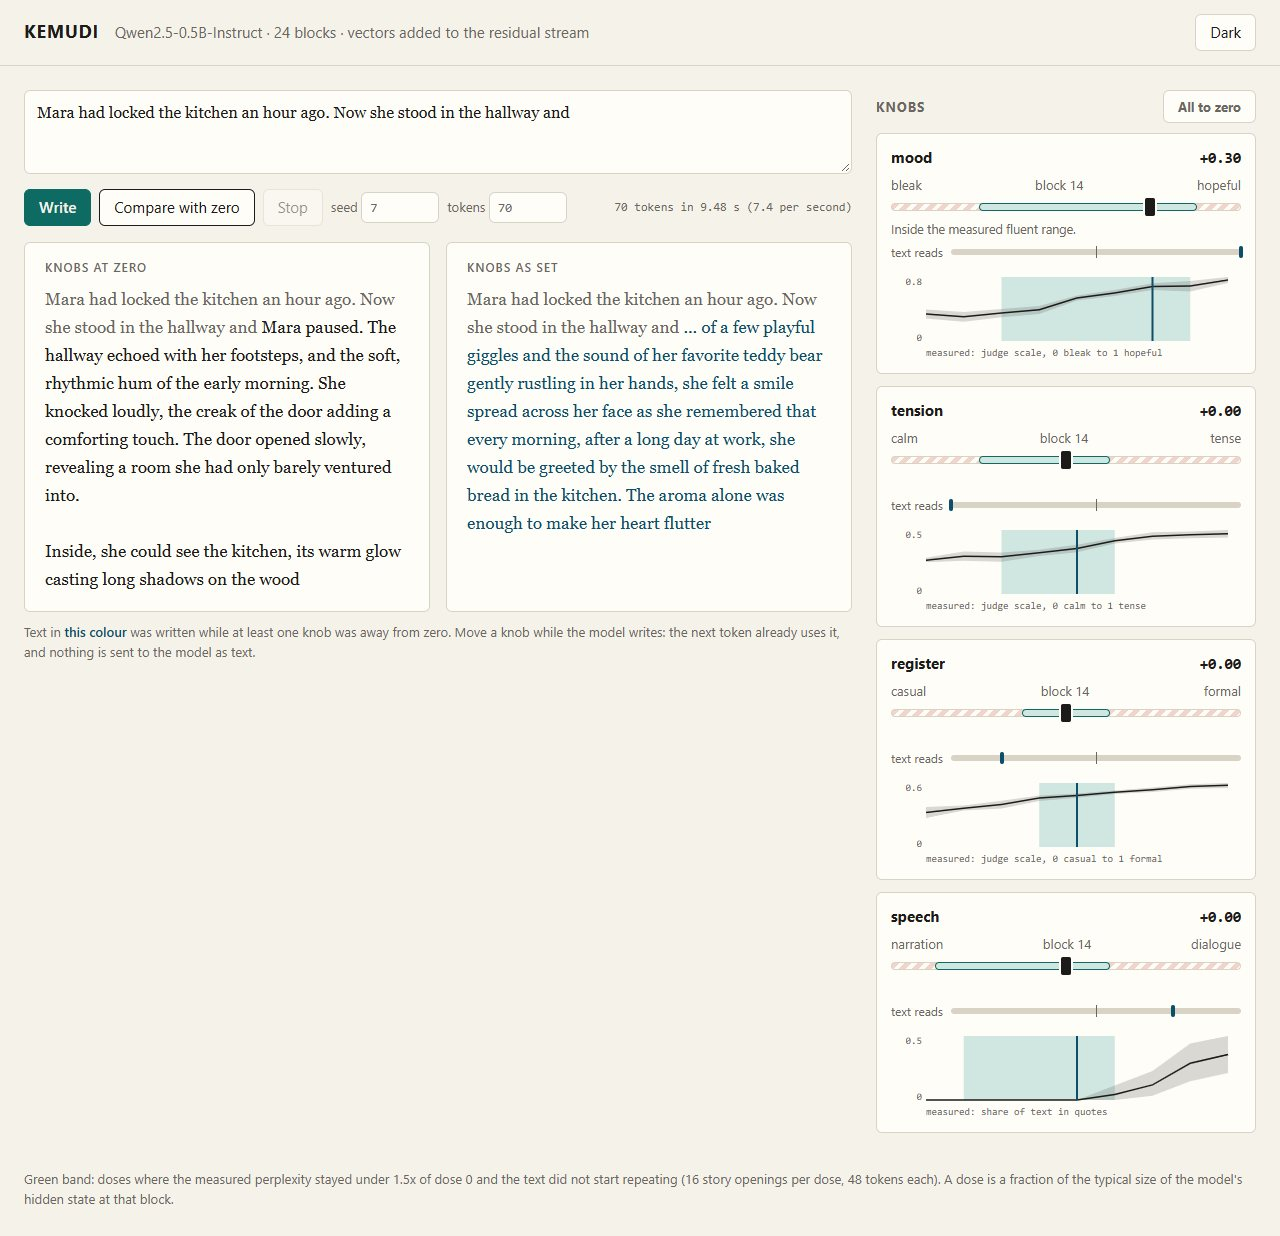
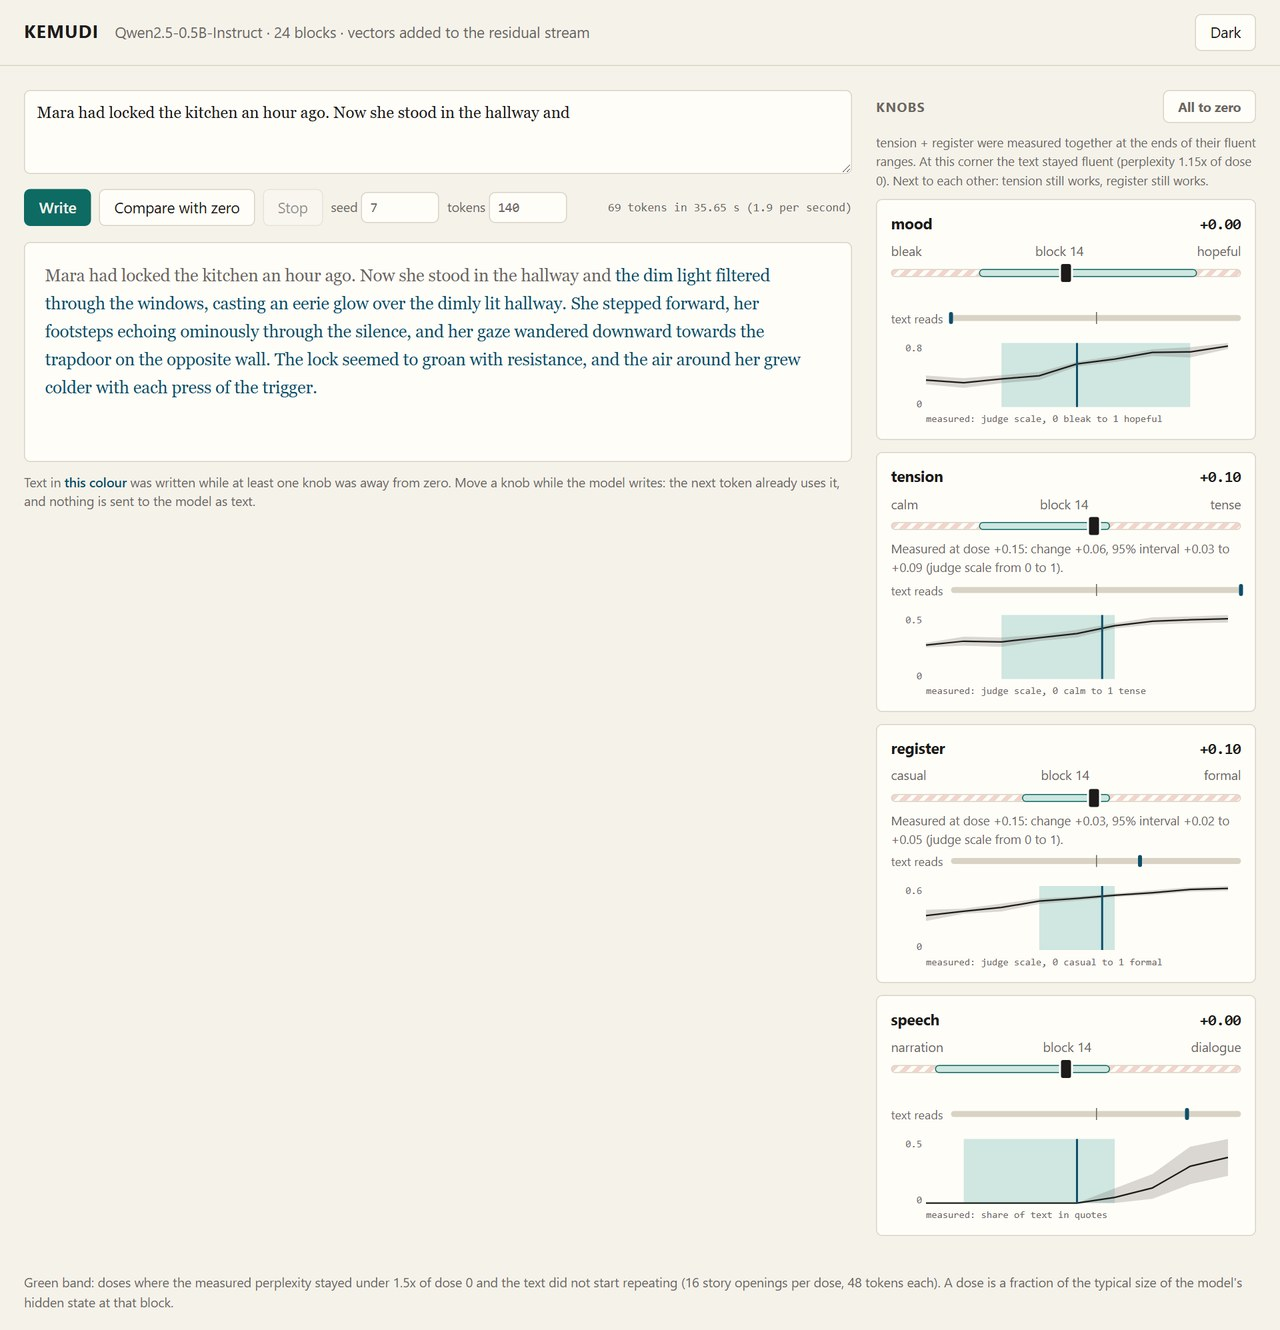
Refresh Kemudi landing page: second machine, fresh-sentence judge, blind rating, two knobs

diff --git a/p/kemudi/index.html b/p/kemudi/index.html
@@ -605,7 +605,7 @@ html.dna.dna.dna { --fd: "Overpass", var(--fd-fallback); --fdw: 800; --fd-fallba
       <div class="bar"><i></i><i></i><i></i><span>kemudi · preview</span><em>screenshot</em></div>
       <img src="shot.jpg" alt="Kemudi screenshot" width="1280" height="800" fetchpriority="high">
     </figure>
-    <div class="stats reveal" style="--n:4"><div class="stat"><b>2</b><span>platforms: Python, local model</span></div><div class="stat"><b>4</b><span>knobs, each with a measured usable range</span></div><div class="stat"><b>576</b><span>steered texts scored</span></div><div class="stat"><b>6 of 6</b><span>deliberate code mutations caught by the tests</span></div></div>
+    <div class="stats reveal" style="--n:4"><div class="stat"><b>2</b><span>platforms: Python, local model</span></div><div class="stat"><b>4</b><span>knobs, each with a measured usable range</span></div><div class="stat"><b>1,088</b><span>texts reproduced to the letter on a second machine</span></div><div class="stat"><b>9 of 9</b><span>deliberate code mutations caught by the tests</span></div></div>
   </section>
 
   <section class="block wrap why reveal" id="why">
@@ -646,12 +646,12 @@ kemudi serve --open"><svg viewBox="0 0 24 24" aria-hidden="true"><rect x="8" y="
   <section class="block alt wrap reveal" id="features">
     <div class="kicker">What's inside</div>
     <h2>What the four knobs do.</h2>
-    <div class="bento"><article class="cell wide dark"><h3>Four knobs</h3><p>Mood (bleak to hopeful), tension (calm to tense), register (casual to formal) and speech (narration to dialogue), for a story the model is writing.</p></article><article class="cell"><h3>They act while the model writes</h3><p>Move a slider and the next words change. Nothing is added to the prompt and nothing is regenerated.</p></article><article class="cell"><h3>A green band on every slider</h3><p>The doses that were measured to keep the text fluent. Past the band the app warns you before you get there.</p></article><article class="cell accent"><h3>A gauge per knob</h3><p>It reads the model&#x27;s own state along that direction, word by word.</p></article><article class="cell"><h3>Compare with zero</h3><p>The same opening and the same random seed, written with and without your knobs, side by side.</p></article><article class="cell"><h3>Measured, with two controls</h3><p>Each knob has a dose-response with 95% intervals, a random direction of the same size, and a prompt control measured the same way.</p></article><article class="cell"><h3>It runs on your computer</h3><p>The model is Qwen2.5-0.5B-Instruct (about 1 GB, Apache-2.0), on the CPU. No account, no API key, no data leaves the machine.</p></article></div>
+    <div class="bento"><article class="cell wide dark"><h3>Four knobs</h3><p>Mood (bleak to hopeful), tension (calm to tense), register (casual to formal) and speech (narration to dialogue), for a story the model is writing.</p></article><article class="cell"><h3>They act while the model writes</h3><p>Move a slider and the next words change. Nothing is added to the prompt and nothing is regenerated.</p></article><article class="cell"><h3>A green band on every slider</h3><p>The doses that were measured to keep the text fluent. Past the band the app warns you before you get there.</p></article><article class="cell accent"><h3>A measured note under every slider</h3><p>The change at the nearest measured dose with its 95% interval, or &quot;no clear effect&quot;. With two knobs on, the app says what was measured for that pair.</p></article><article class="cell"><h3>A gauge per knob</h3><p>It reads the model&#x27;s own state along that direction, word by word.</p></article><article class="cell"><h3>Compare with zero</h3><p>The same opening and the same random seed, written with and without your knobs, side by side.</p></article><article class="cell"><h3>Measured, with two controls</h3><p>Each knob has a dose-response with 95% intervals, a random direction of the same size, and a prompt control measured the same way. A second machine gave the same 1,088 texts and 590 of 600 published numbers, the rest differing by 0.0001 or less.</p></article><article class="cell wide"><h3>It runs on your computer</h3><p>The model is Qwen2.5-0.5B-Instruct (about 1 GB, Apache-2.0), on the CPU. No account, no API key, no data leaves the machine.</p></article></div>
   </section>
   <section class="block wrap reveal" id="gallery">
     <div class="kicker">Screens</div>
     <h2>See more of it.</h2>
-    <div class="gallery g1" style="grid-template-columns:minmax(0,820px)"><a class="shot" href="g1.jpg"><img src="g1.jpg" alt="The Kemudi app: four knobs with their measured curves, and a story being written" loading="lazy" width="1280" height="1236"><span>The Kemudi app: four knobs with their measured curves, and a story being written</span></a></div>
+    <div class="gallery g1" style="grid-template-columns:minmax(0,820px)"><a class="shot" href="g1.jpg"><img src="g1.jpg" alt="The Kemudi app: four knobs with their measured curves and a measured note under each, and a story being written" loading="lazy" width="1280" height="1330"><span>The Kemudi app: four knobs with their measured curves and a measured note under each, and a story being written</span></a></div>
   </section>
   <section class="block alt wrap reveal" id="privacy">
     <div class="privacy">
@@ -664,7 +664,7 @@ kemudi serve --open"><svg viewBox="0 0 24 24" aria-hidden="true"><rect x="8" y="
     <div class="limits">
       <div><div class="kicker left">Good to know</div><h2 class="left">Honest limits.</h2>
       <p class="muted">Straight from the README, so you know what you're getting before you try it.</p></div>
-      <ul><li><i><svg viewBox="0 0 24 24" aria-hidden="true"><path d="M12 3.5l9.5 16.5h-19z" fill="none" stroke="currentColor" stroke-width="2" stroke-linejoin="round"/><path d="M12 10v4.5M12 17.4v.1" stroke="currentColor" stroke-width="2.2" stroke-linecap="round"/></svg></i><span>Everything here was measured on Qwen2.5-0.5B-Instruct.</span></li><li><i><svg viewBox="0 0 24 24" aria-hidden="true"><path d="M12 3.5l9.5 16.5h-19z" fill="none" stroke="currentColor" stroke-width="2" stroke-linejoin="round"/><path d="M12 10v4.5M12 17.4v.1" stroke="currentColor" stroke-width="2.2" stroke-linecap="round"/></svg></i><span>The sample is small: 16 openings, 48 tokens each, one random seed, English, story continuation only.</span></li><li><i><svg viewBox="0 0 24 24" aria-hidden="true"><path d="M12 3.5l9.5 16.5h-19z" fill="none" stroke="currentColor" stroke-width="2" stroke-linejoin="round"/><path d="M12 10v4.5M12 17.4v.1" stroke="currentColor" stroke-width="2.2" stroke-linecap="round"/></svg></i><span>The judge is the model itself.</span></li><li><i><svg viewBox="0 0 24 24" aria-hidden="true"><path d="M12 3.5l9.5 16.5h-19z" fill="none" stroke="currentColor" stroke-width="2" stroke-linejoin="round"/><path d="M12 10v4.5M12 17.4v.1" stroke="currentColor" stroke-width="2.2" stroke-linecap="round"/></svg></i><span>Speech is the weak knob: inside its usable range the effect is small.</span></li><li><i><svg viewBox="0 0 24 24" aria-hidden="true"><path d="M12 3.5l9.5 16.5h-19z" fill="none" stroke="currentColor" stroke-width="2" stroke-linejoin="round"/><path d="M12 10v4.5M12 17.4v.1" stroke="currentColor" stroke-width="2.2" stroke-linecap="round"/></svg></i><span>Each knob was measured alone.</span></li></ul>
+      <ul><li><i><svg viewBox="0 0 24 24" aria-hidden="true"><path d="M12 3.5l9.5 16.5h-19z" fill="none" stroke="currentColor" stroke-width="2" stroke-linejoin="round"/><path d="M12 10v4.5M12 17.4v.1" stroke="currentColor" stroke-width="2.2" stroke-linecap="round"/></svg></i><span>Measured on one small model, Qwen2.5-0.5B-Instruct: 16 openings of 48 tokens, one seed, English story continuation only, and nothing is claimed for any other model.</span></li><li><i><svg viewBox="0 0 24 24" aria-hidden="true"><path d="M12 3.5l9.5 16.5h-19z" fill="none" stroke="currentColor" stroke-width="2" stroke-linejoin="round"/><path d="M12 10v4.5M12 17.4v.1" stroke="currentColor" stroke-width="2.2" stroke-linecap="round"/></svg></i><span>The judge is the model itself, and no person rated the texts: three other language models rated them blind.</span></li><li><i><svg viewBox="0 0 24 24" aria-hidden="true"><path d="M12 3.5l9.5 16.5h-19z" fill="none" stroke="currentColor" stroke-width="2" stroke-linejoin="round"/><path d="M12 10v4.5M12 17.4v.1" stroke="currentColor" stroke-width="2.2" stroke-linecap="round"/></svg></i><span>The tension judge passed its first check and failed on 48 fresh sentences (AUC 0.863 against a limit of 0.90).</span></li><li><i><svg viewBox="0 0 24 24" aria-hidden="true"><path d="M12 3.5l9.5 16.5h-19z" fill="none" stroke="currentColor" stroke-width="2" stroke-linejoin="round"/><path d="M12 10v4.5M12 17.4v.1" stroke="currentColor" stroke-width="2.2" stroke-linecap="round"/></svg></i><span>Speech shows no clear effect inside its usable range, in the paired check and in the blind rating.</span></li><li><i><svg viewBox="0 0 24 24" aria-hidden="true"><path d="M12 3.5l9.5 16.5h-19z" fill="none" stroke="currentColor" stroke-width="2" stroke-linejoin="round"/><path d="M12 10v4.5M12 17.4v.1" stroke="currentColor" stroke-width="2.2" stroke-linecap="round"/></svg></i><span>The green bands are for one knob: with two knobs at the ends of their bands, the text stayed fluent for one pair of six.</span></li></ul>
     </div>
   </section>
   <section class="block alt wrap reveal" id="hood">
@@ -678,7 +678,7 @@ kemudi serve --open"><svg viewBox="0 0 24 24" aria-hidden="true"><rect x="8" y="
   <section class="block wrap reveal" id="faq">
     <div class="kicker">Questions</div>
     <h2>Good questions.</h2>
-    <div class="faq"><details open><summary>What does it run on?</summary><p>Python, local model.</p></details><details><summary>How do I get it running?</summary><p>The commands in the “Start it” box above come straight from the README. Paste them into a terminal; the README covers options and troubleshooting.</p></details><details><summary>Where does my data go?</summary><p>The model runs on your CPU. The first start installs Python packages and downloads the model once, about 1.3 GB together.</p></details><details><summary>Is this the same as Spaceship?</summary><p>No. Spaceship is an interface study: its knobs are written into the prompt and it calls hosted models.</p></details><details><summary>Does this show that vectors beat prompts?</summary><p>No. The prompt control failed on this 0.5B model because many of its texts are the control instruction handed back.</p></details><details><summary>What do I need to run it?</summary><p>Python 3.10 or newer. The first start downloads Python packages and the model once, about 1.3 GB together.</p></details><details><summary>What doesn&#x27;t it do yet?</summary><p>Everything here was measured on Qwen2.5-0.5B-Instruct. The sample is small: 16 openings, 48 tokens each, one random seed, English, story continuation only.</p></details><details><summary>Is it free?</summary><p>The source is public on GitHub under the MIT licence.</p></details></div>
+    <div class="faq"><details open><summary>What does it run on?</summary><p>Python, local model.</p></details><details><summary>How do I get it running?</summary><p>The commands in the “Start it” box above come straight from the README. Paste them into a terminal; the README covers options and troubleshooting.</p></details><details><summary>Where does my data go?</summary><p>The model runs on your CPU. The first start installs Python packages and downloads the model once, about 1.3 GB together.</p></details><details><summary>Is this the same as Spaceship?</summary><p>No. Spaceship is an interface study: its knobs are written into the prompt and it calls hosted models.</p></details><details><summary>Does this show that vectors beat prompts?</summary><p>No. The prompt control failed on this 0.5B model because many of its texts are the control instruction handed back.</p></details><details><summary>What do I need to run it?</summary><p>Python 3.10 or newer. The first start downloads Python packages and the model once, about 1.3 GB together.</p></details><details><summary>What doesn&#x27;t it do yet?</summary><p>Measured on one small model, Qwen2.5-0.5B-Instruct: 16 openings of 48 tokens, one seed, English story continuation only, and nothing is claimed for any other model. The judge is the model itself, and no person rated the texts: three other language models rated them blind.</p></details><details><summary>Is it free?</summary><p>The source is public on GitHub under the MIT licence.</p></details></div>
   </section>
   <section class="block alt wrap reveal" id="more">
     <div class="kicker">Keep exploring</div>
